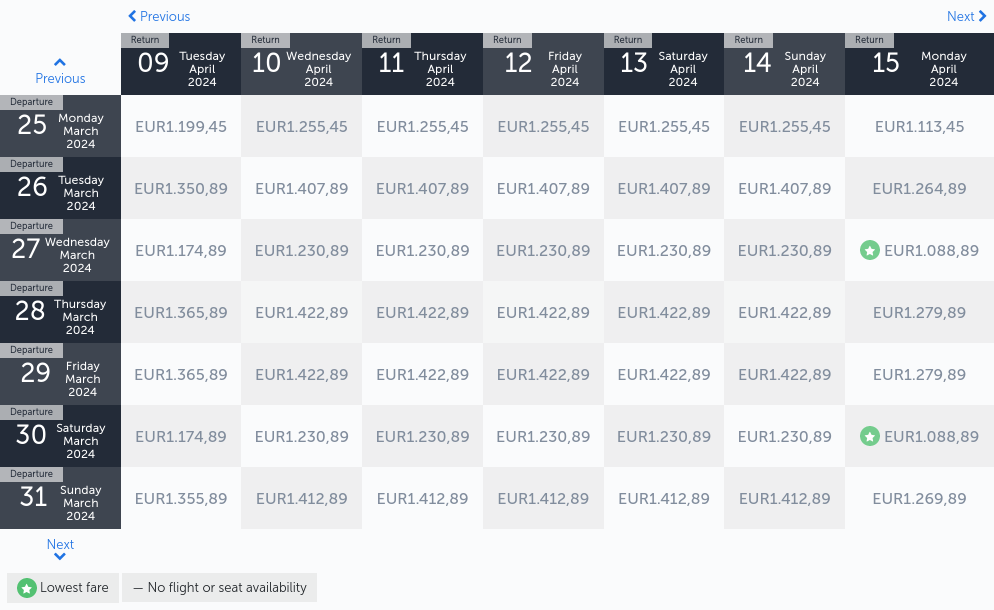
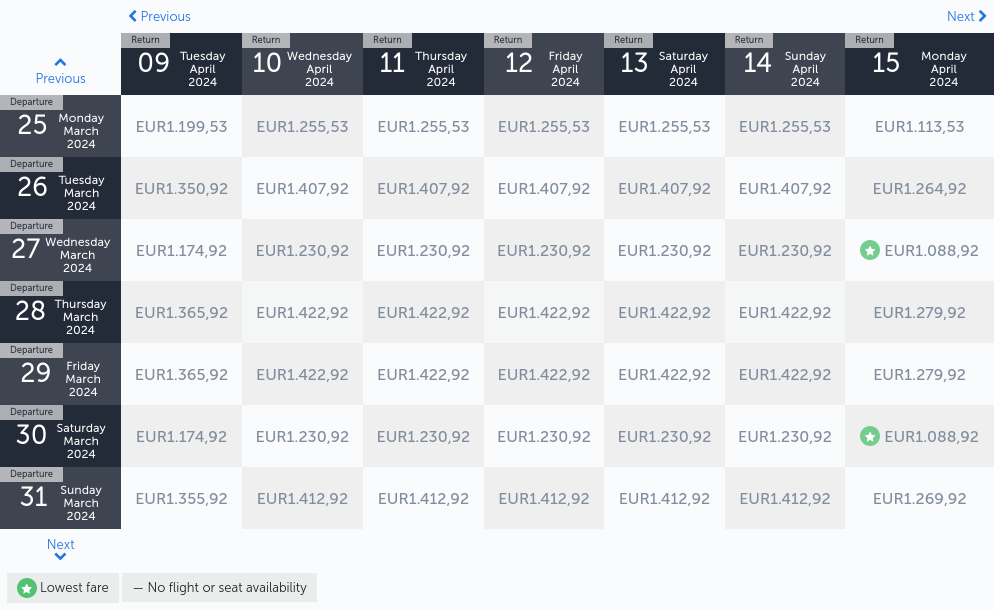
Latest scraping taiwan: Wed Aug  2 22:40:03 UTC 2023

diff --git a/scrapes/taiwan/turkish-airlines.md b/scrapes/taiwan/turkish-airlines.md
@@ -2,13 +2,13 @@
 | --- | --- |     |     |     |     |     |     | --- | --- | --- | --- | --- | --- |
 | Previous | Return<br><br>09 Tuesday April 2024 | Return<br><br>10 Wednesday April 2024 | Return<br><br>11 Thursday April 2024 | Return<br><br>12 Friday April 2024 | Return<br><br>13 Saturday April 2024 | Return<br><br>14 Sunday April 2024 | Return<br><br>15 Monday April 2024 |
 | --- | --- | --- | --- | --- | --- | --- | --- |
-| Departure<br><br>25 Monday March 2024 | 1.199,45 | 1.255,45 | 1.255,45 | 1.255,45 | 1.255,45 | 1.255,45 | 1.113,45 |
-| Departure<br><br>26 Tuesday March 2024 | 1.350,89 | 1.407,89 | 1.407,89 | 1.407,89 | 1.407,89 | 1.407,89 | 1.264,89 |
-| Departure<br><br>27 Wednesday March 2024 | 1.174,89 | 1.230,89 | 1.230,89 | 1.230,89 | 1.230,89 | 1.230,89 | 1.088,89 |
-| Departure<br><br>28 Thursday March 2024 | 1.365,89 | 1.422,89 | 1.422,89 | 1.422,89 | 1.422,89 | 1.422,89 | 1.279,89 |
-| Departure<br><br>29 Friday March 2024 | 1.365,89 | 1.422,89 | 1.422,89 | 1.422,89 | 1.422,89 | 1.422,89 | 1.279,89 |
-| Departure<br><br>30 Saturday March 2024 | 1.174,89 | 1.230,89 | 1.230,89 | 1.230,89 | 1.230,89 | 1.230,89 | 1.088,89 |
-| Departure<br><br>31 Sunday March 2024 | 1.355,89 | 1.412,89 | 1.412,89 | 1.412,89 | 1.412,89 | 1.412,89 | 1.269,89 |
+| Departure<br><br>25 Monday March 2024 | 1.199,53 | 1.255,53 | 1.255,53 | 1.255,53 | 1.255,53 | 1.255,53 | 1.113,53 |
+| Departure<br><br>26 Tuesday March 2024 | 1.350,92 | 1.407,92 | 1.407,92 | 1.407,92 | 1.407,92 | 1.407,92 | 1.264,92 |
+| Departure<br><br>27 Wednesday March 2024 | 1.174,92 | 1.230,92 | 1.230,92 | 1.230,92 | 1.230,92 | 1.230,92 | 1.088,92 |
+| Departure<br><br>28 Thursday March 2024 | 1.365,92 | 1.422,92 | 1.422,92 | 1.422,92 | 1.422,92 | 1.422,92 | 1.279,92 |
+| Departure<br><br>29 Friday March 2024 | 1.365,92 | 1.422,92 | 1.422,92 | 1.422,92 | 1.422,92 | 1.422,92 | 1.279,92 |
+| Departure<br><br>30 Saturday March 2024 | 1.174,92 | 1.230,92 | 1.230,92 | 1.230,92 | 1.230,92 | 1.230,92 | 1.088,92 |
+| Departure<br><br>31 Sunday March 2024 | 1.355,92 | 1.412,92 | 1.412,92 | 1.412,92 | 1.412,92 | 1.412,92 | 1.269,92 |
 | Next |
 | Lowest fare — No flight or seat availability |     |     |     |     |     |     |     |
 
